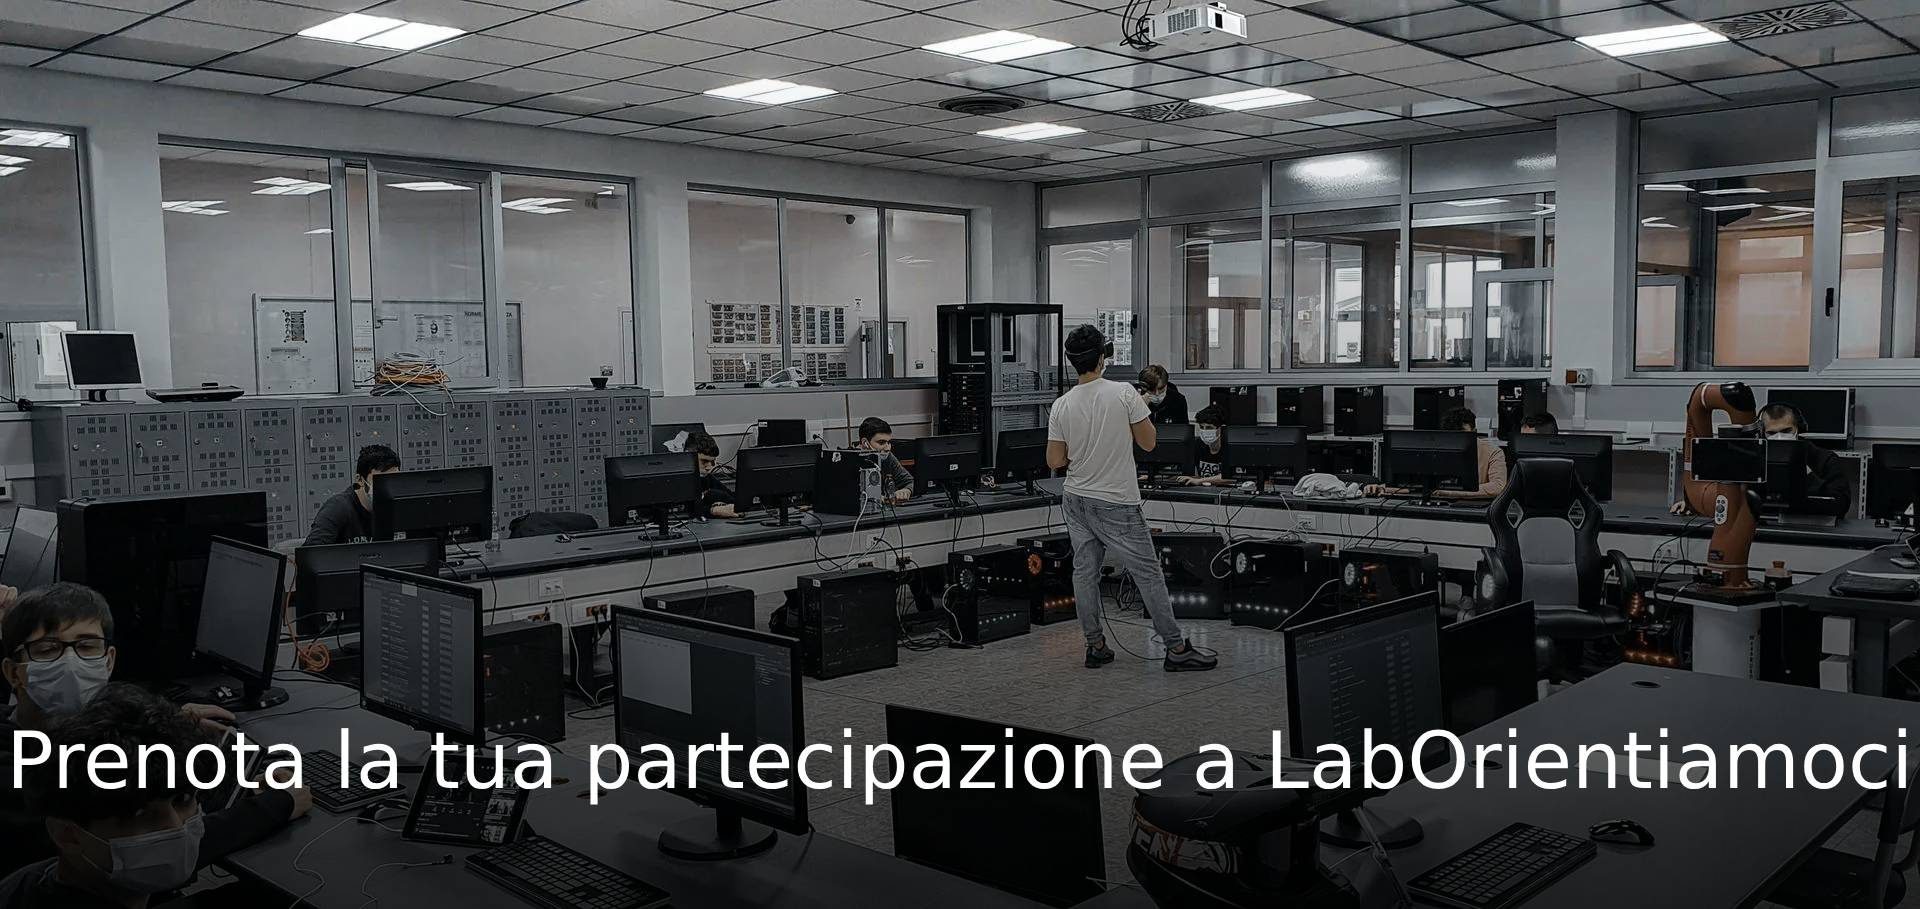
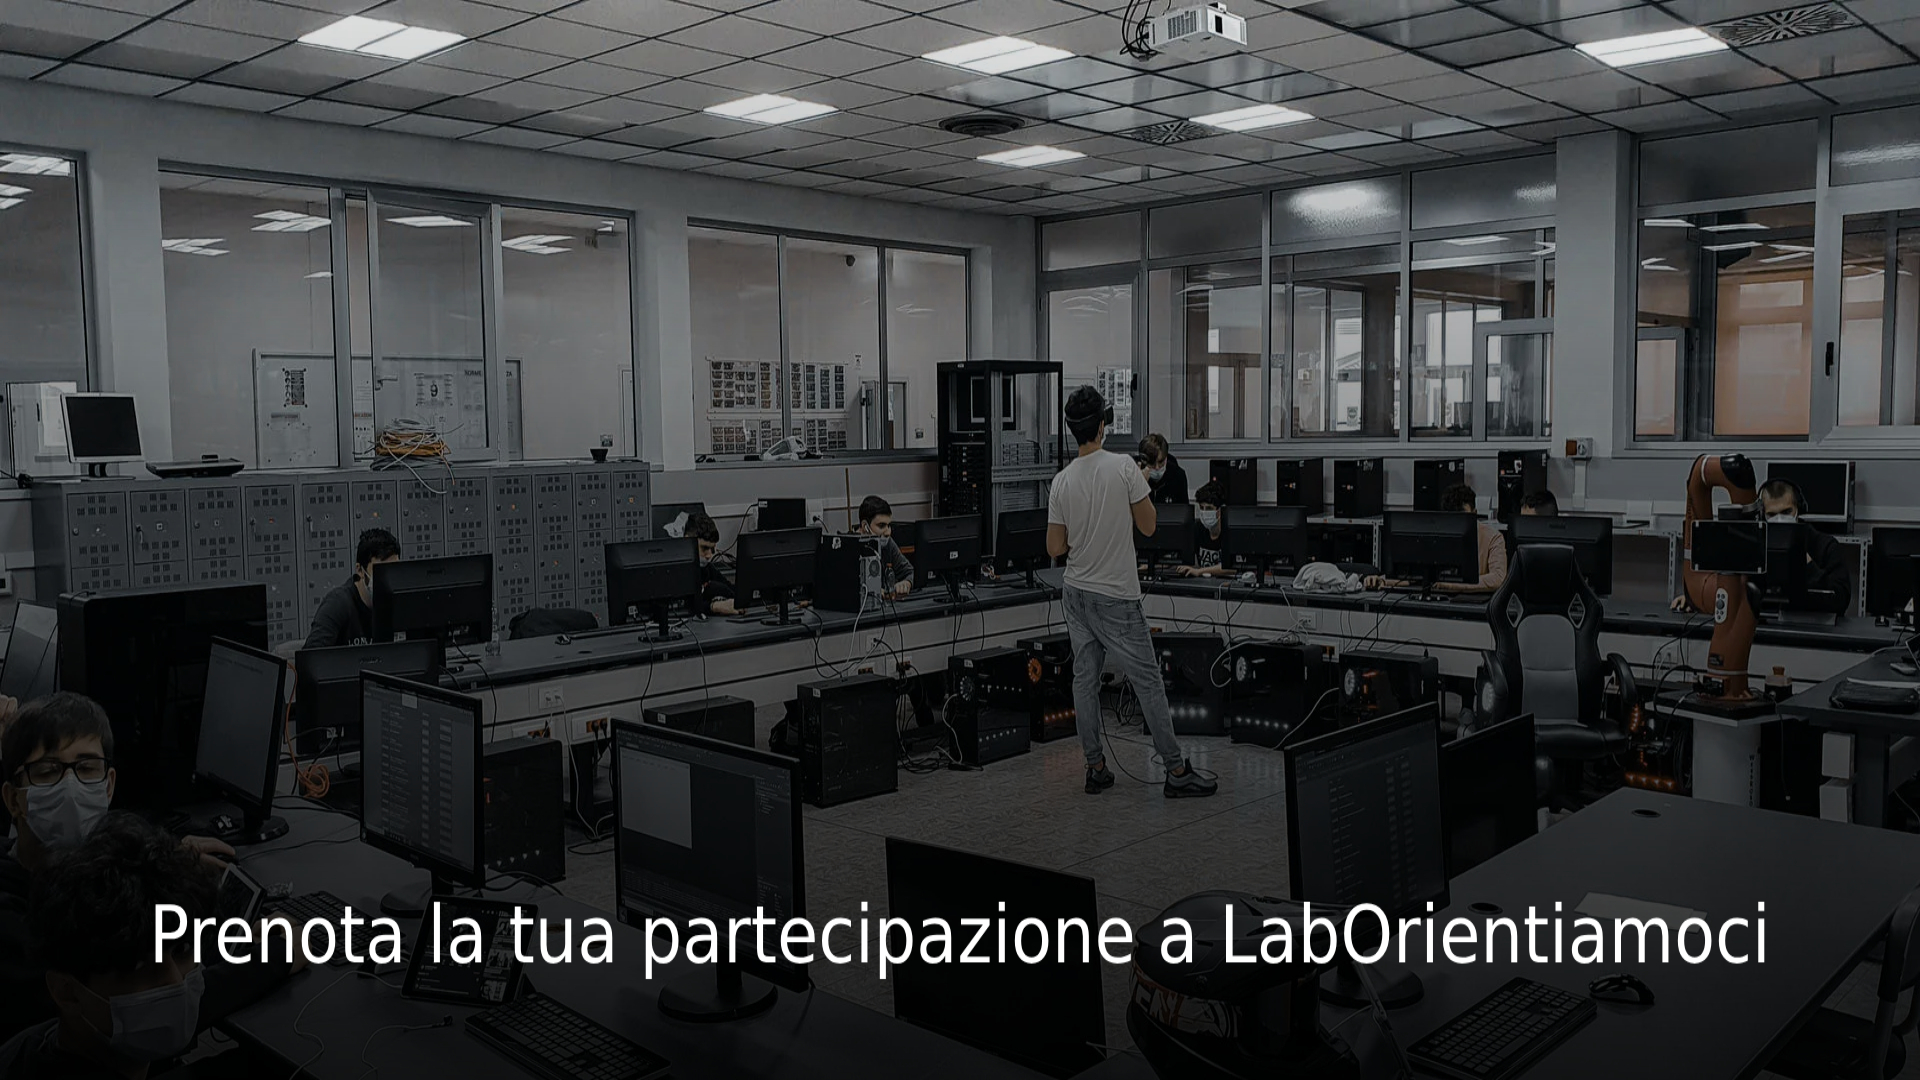
Fatto product per prenotazioni lab e scuola aperta

diff --git a/pages/index.js b/pages/index.js
@@ -165,11 +165,13 @@ let link_utili = [
 
 let bottoni = [
   {
-    immagineUrl: "/image/home/sfp-donbosco.jpg",
+    // title: 'Clicca qui',
+    immagineUrl: "/images/home/sfp-donbosco.jpg",
     url: "https://forms.gle/Zney1K244XaXoV8D8 ",
   },
   {
-    immagineUrl: "/image/home/lab.jpg",
+    // title: 'Clicca qui',
+    immagineUrl: "/images/home/lab.jpg",
     url: "https://turni.inoratorio.it/shifts?group_id=7&key=lfdja4shjf2",
   },
 ];
@@ -179,7 +181,7 @@ export default function Home({ data }) {
     <Layout>
       <Featured data={data} />
 
-      <Products cardWidth={6} products={bottoni} />
+      <Products cardWidth={6} products={bottoni} aspectRatio={"2 / 1"} />
 
       <SwiperNews title="News" data={data} limit={12} />
       <Products
